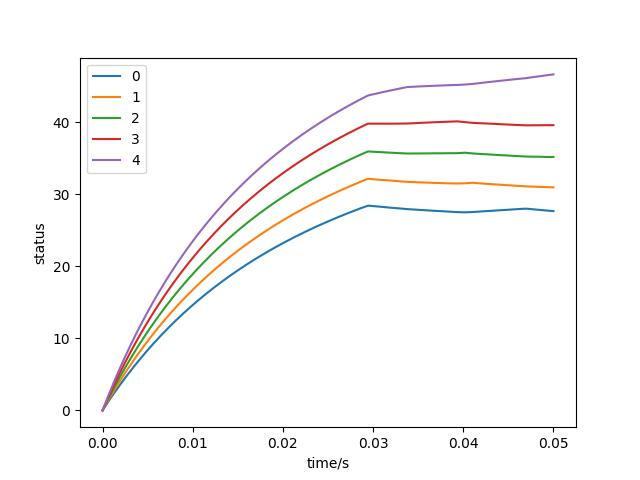
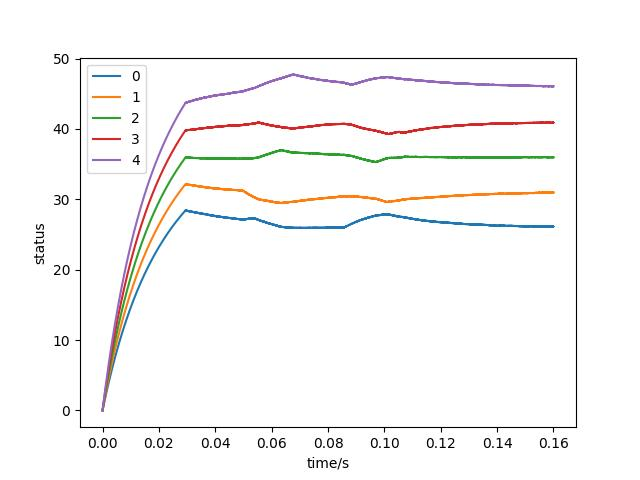
seek time

diff --git a/utils.py b/utils.py
@@ -34,8 +34,12 @@ def get_settle_time2013(p, q, alpha, beta):
     return settle_time
 
 
-def get_settle_time_consesus():
-    pass
+def get_equilibrium_settle(p, q, alpha, beta, m=0.2):
+
+    alpha = 2**((p+1)/2)*alpha*(m**p)
+    beta = 2**((q+1)/2)*beta*(m**q)
+    
+    return p, q, alpha, beta
 
 
 def get_settle_time_equilibrium(p, q, delta, eta, m):
@@ -126,7 +130,7 @@ def get_directed_consensus():
     N = len(matrix)
     beta = 2
     alpha = 2
-    p = 0.5
+    p = 0.9
     q = 1/p
     min_eigenvalue = min(get_eigenvalue_from_matrix(matrix))
     k2 = (alpha/(p+1))**(2*p/(p+1)) + (beta/(q+1))**(2*p/(q+1)) + (2**((q-1)/(q+1)))*(alpha/(p+1))**(2*q/(q+1))+ (2**((q-1)/(q+1)))*(beta/(q+1))**(2*q/(q+1))
@@ -139,7 +143,18 @@ def get_directed_consensus():
 # get_settle_time_equilibrium(0.5, 1.5, 2, 2, 0.5)
 # get_eigenvalue_from_matrix(None)
 # get_eigenvalue_from_matrix()
+p = 0.9
+q = 1/p
 answer = get_directed_consensus()
-t1 = get_settle_time2013(0.5, 2, answer, answer)
-t2 = get_settle_time_2019(0.5, 2, answer, answer)
+print(answer)
+t1 = get_settle_time2013(2*p/(p+1), 2*q/(q+1), answer, answer)
+t2 = get_settle_time_2019(0.75, 4/3, answer, answer)
+print(t1, t2)
+
+p , q, alpha, beta = get_equilibrium_settle(0.5, 1.5, 2, 2)
+print(p, q, alpha, beta)
+
+t1 = get_settle_time_2019(p, q, alpha, beta)
+t2 = get_settle_time2013(p, q, alpha, beta)
+
 print(t1, t2)

diff --git a/games/config.py b/games/config.py
@@ -64,7 +64,7 @@ ftg_aa_config = {
     'global': {
         'matrix': [[0, 1, 0, 0, 0], [0, 0, 1, 0, 0], [0, 0, 0, 1, 0], [0, 0, 0, 0, 1], [1, 0, 0, 0, 0]],
         'epochs': 2000000,
-        'time_delta': 5e-8
+        'time_delta': 5e-7
     },
 
     'share': {
